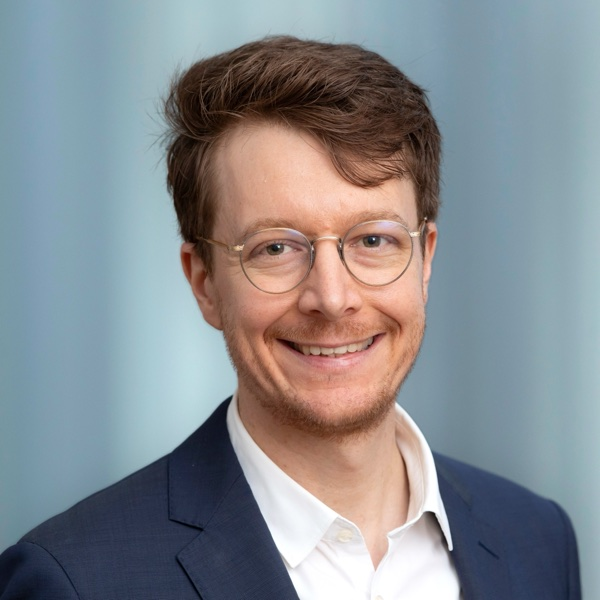
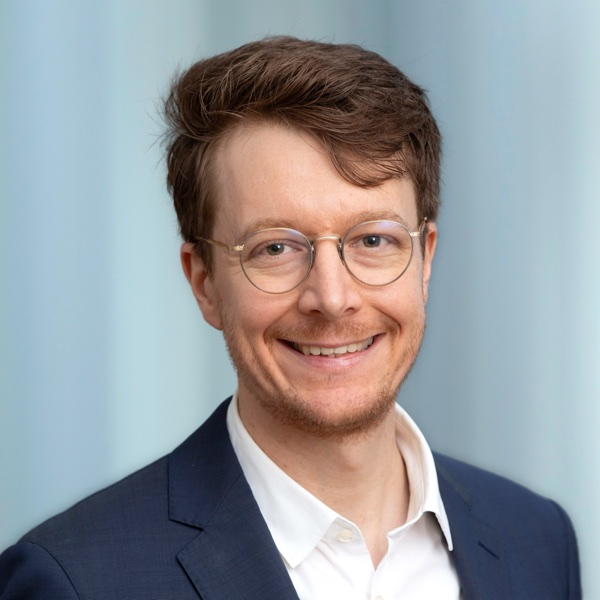
Brighten headshot backdrop in side bands; add minimal legal notice
- Headshot: backdrop lifted in two vertical bands beside the head (exposure + gamma, so
  darker stripes rise most); subject protected by a mask and left unedited; preview image redone
- impressum.html: short legal notice and privacy note, linked from the footer

diff --git a/impressum.html b/impressum.html
@@ -1,0 +1,27 @@
+<!doctype html>
+<html lang="en">
+<head>
+<meta charset="utf-8">
+<meta name="viewport" content="width=device-width, initial-scale=1, viewport-fit=cover">
+<title>Legal notice · Florian Heeb</title>
+<meta name="robots" content="noindex">
+<meta name="theme-color" content="#f4f6f8" media="(prefers-color-scheme: light)">
+<meta name="theme-color" content="#0e151b" media="(prefers-color-scheme: dark)">
+<link rel="icon" href="favicon.svg" type="image/svg+xml">
+<link rel="icon" href="favicon-32.png" sizes="32x32" type="image/png">
+<link rel="apple-touch-icon" href="apple-touch-icon.png">
+<link rel="stylesheet" href="style.css">
+<script>(function(){try{var t=new URLSearchParams(location.search).get("theme");if(t==="light"||t==="dark")document.documentElement.dataset.theme=t}catch(e){}})();</script>
+</head>
+<body>
+<main class="page legal">
+  <p><a href="./">Florian Heeb</a></p>
+
+  <h1>Legal notice</h1>
+  <p>Florian Heeb, Leibniz Institute for Financial Research SAFE, House of Finance, Theodor-W.-Adorno-Platz 3, 60323 Frankfurt am Main, Germany. Email: <a href="mailto:heeb@safe-frankfurt.de">heeb@safe-frankfurt.de</a>. Responsible for the content under § 18 (2) MStV: Florian Heeb, address as above. This is a personal website, not an official website of SAFE or Goethe University Frankfurt.</p>
+
+  <h1 id="privacy">Privacy</h1>
+  <p>This website is hosted on GitHub Pages (GitHub, Inc., USA). To deliver the site, GitHub processes server log data, including your IP address (Art. 6(1)(f) GDPR); see the <a href="https://docs.github.com/en/site-policy/privacy-policies/github-general-privacy-statement">GitHub General Privacy Statement</a>. This website sets no cookies, uses no tracking and loads nothing from third parties. You have the rights under Arts. 15–21 GDPR and may lodge a complaint with a data protection authority.</p>
+</main>
+</body>
+</html>

diff --git a/style.css b/style.css
@@ -211,6 +211,10 @@ main{min-width:0;padding-block:28px 0}
   .foot-addr{display:none}
 }
 
+/* Legal notice: one short reading column, small type */
+.page{max-width:40rem;margin:0 auto;padding-left:max(16px,env(safe-area-inset-left,0px));padding-right:max(16px,env(safe-area-inset-right,0px));padding-block:40px max(24px,env(safe-area-inset-bottom,0px));font-size:var(--fs-sm);color:var(--ink-2)}
+.legal h1{margin:32px 0 8px;font-size:var(--fs-md);font-weight:600;color:var(--ink)}
+
 @media (prefers-reduced-motion:no-preference){
   html{scroll-behavior:smooth}
   a,.dc-cta{transition:color .15s,background-color .15s,border-color .15s,text-decoration-color .15s,box-shadow .2s,transform .2s}

diff --git a/index.html b/index.html
@@ -214,7 +214,7 @@
 
 <footer class="foot">
   <address class="foot-addr">Leibniz Institute for Financial Research SAFE<br>House of Finance<br>Theodor-W.-Adorno-Platz 3<br>60323 Frankfurt am Main, Germany</address>
-  <p class="foot-meta"><span>Last updated: November 2026</span></p>
+  <p class="foot-meta"><span>Last updated: November 2026</span><a href="impressum.html">Legal notice</a></p>
 </footer>
 
 </div>

diff --git a/README.md b/README.md
@@ -8,9 +8,10 @@ Plain HTML and CSS: no framework, no build step, no cookies, no tracking, no thi
 | File | What it is |
 |---|---|
 | `index.html` | The homepage (one page) |
+| `impressum.html` | Minimal legal notice and privacy note (linked from the footer) |
 | `style.css` | All styles, light and dark theme |
 | `Florian_Heeb_CV.pdf` | CV, compiled from `06_Tenure_Track/LaTeX_CV/CV_Florian_Heeb.tex` |
-| `assets/headshot.jpg` | Portrait `Heeb.jpg` (Nov 2024 shoot); backdrop lifted +0.5 EV outside a protected subject mask, subject pixels unchanged |
+| `assets/headshot.jpg` | Portrait `Heeb.jpg` (Nov 2024 shoot); backdrop brightened in two side bands (exposure + gamma), with the subject protected by a mask and left unedited |
 | `assets/dear-chair-cover.jpg` | Title slide of the Dear Chair explorable |
 | `assets/og-image.jpg` | Link-preview image (1200 × 630) for LinkedIn, Slack, etc. |
 | `fonts/` | Self-hosted fonts (IBM Plex Sans, Source Serif 4, subsets of IBM Plex Mono and Besley) with their SIL Open Font License texts |
